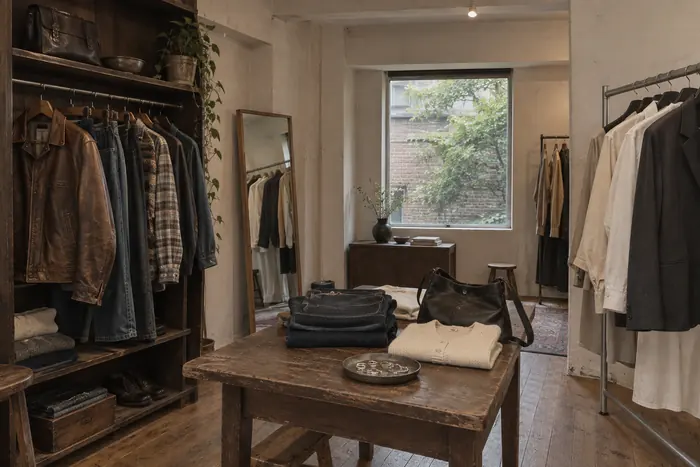
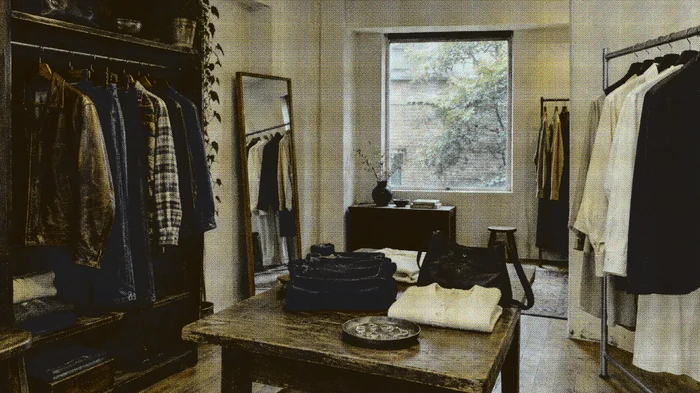
사진 8장을 망점 효과 적용본으로 교체(히어로·PICK 5·지역 3), 실제 크기에 맞춰 srcset 수정

diff --git a/index.html b/index.html
@@ -18,7 +18,7 @@
   <link rel="apple-touch-icon" href="src/assets/apple-touch-icon.png?v=3">
 
   <link rel="stylesheet" href="https://cdnjs.cloudflare.com/ajax/libs/leaflet/1.9.4/leaflet.min.css" />
-  <link rel="preload" as="image" href="src/assets/hero.webp?v=7" imagesrcset="src/assets/hero-1800.webp?v=7 1800w, src/assets/hero.webp?v=7 3000w" imagesizes="100vw" fetchpriority="high">
+  <link rel="preload" as="image" href="src/assets/hero.webp?v=8" imagesrcset="src/assets/hero.webp?v=8 1097w" imagesizes="100vw" fetchpriority="high">
   <link rel="stylesheet" href="src/styles/site.css?v=116">
   <title data-i18n="site-title">더하퍼 — K-패션 에디터 큐레이션, 서울</title>
 </head>
@@ -86,7 +86,7 @@
   <main id="main">
     <!-- Hero Section -->
     <section id="hero" class="hero">
-      <img class="hero__image" src="src/assets/hero.webp?v=7" srcset="src/assets/hero-1800.webp?v=7 1800w, src/assets/hero.webp?v=7 3000w" sizes="100vw" alt="" width="3000" height="1904" fetchpriority="high" decoding="async">
+      <img class="hero__image" src="src/assets/hero.webp?v=8" srcset="src/assets/hero.webp?v=8 1097w" sizes="100vw" alt="" width="1097" height="617" fetchpriority="high" decoding="async">
       <div class="container">
         <div class="hero__content">
           <h1 class="hero__headline" style="color: white;" data-i18n="hero-headline">Seoul,
@@ -251,7 +251,7 @@ Curated by Editors</h1>
             <!-- Card 1: Seongsu -->
             <div class="pick-card" data-area="seongsu">
               <div class="pick-card__image">
-                <img src="src/assets/pick-1-seongsu-700.webp?v=1" srcset="src/assets/pick-1-seongsu-700.webp?v=1 700w, src/assets/pick-1-seongsu-1200.webp?v=1 1200w" sizes="(max-width: 700px) 100vw, (max-width: 1100px) 50vw, 40vw" width="1200" height="1600" alt="" loading="lazy" decoding="async">
+                <img src="src/assets/pick-1-seongsu-700.webp?v=2" srcset="src/assets/pick-1-seongsu-700.webp?v=2 700w, src/assets/pick-1-seongsu-1200.webp?v=2 883w" sizes="(max-width: 700px) 100vw, (max-width: 1100px) 50vw, 40vw" width="883" height="1125" alt="" loading="lazy" decoding="async">
               </div>
               <p class="pick-card__area" data-i18n="picks-card-1-area">성수</p>
               <h4 class="pick-card__title" data-i18n="picks-card-1-title">성수 골목의 컨템포러리 편집샵</h4>
@@ -261,7 +261,7 @@ Curated by Editors</h1>
             <!-- Card 2: Seongsu -->
             <div class="pick-card" data-area="seongsu">
               <div class="pick-card__image">
-                <img src="src/assets/pick-2-seongsu-700.webp?v=1" srcset="src/assets/pick-2-seongsu-700.webp?v=1 700w, src/assets/pick-2-seongsu-1200.webp?v=1 1200w" sizes="(max-width: 700px) 100vw, (max-width: 1100px) 50vw, 40vw" width="1200" height="800" alt="" loading="lazy" decoding="async">
+                <img src="src/assets/pick-2-seongsu-700.webp?v=2" srcset="src/assets/pick-2-seongsu-700.webp?v=2 700w, src/assets/pick-2-seongsu-1200.webp?v=2 1097w" sizes="(max-width: 700px) 100vw, (max-width: 1100px) 50vw, 40vw" width="1097" height="617" alt="" loading="lazy" decoding="async">
               </div>
               <p class="pick-card__area" data-i18n="picks-card-2-area">성수</p>
               <h4 class="pick-card__title" data-i18n="picks-card-2-title">붉은 벽돌 창고를 고친 브랜드 쇼룸</h4>
@@ -271,7 +271,7 @@ Curated by Editors</h1>
             <!-- Card 3: Hannam -->
             <div class="pick-card" data-area="hannam">
               <div class="pick-card__image">
-                <img src="src/assets/pick-3-hannam-700.webp?v=1" srcset="src/assets/pick-3-hannam-700.webp?v=1 700w, src/assets/pick-3-hannam-1200.webp?v=1 1200w" sizes="(max-width: 700px) 100vw, (max-width: 1100px) 50vw, 40vw" width="1200" height="800" alt="" loading="lazy" decoding="async">
+                <img src="src/assets/pick-3-hannam-700.webp?v=2" srcset="src/assets/pick-3-hannam-700.webp?v=2 700w, src/assets/pick-3-hannam-1200.webp?v=2 1200w" sizes="(max-width: 700px) 100vw, (max-width: 1100px) 50vw, 40vw" width="1200" height="674" alt="" loading="lazy" decoding="async">
               </div>
               <p class="pick-card__area" data-i18n="picks-card-3-area">한남</p>
               <h4 class="pick-card__title" data-i18n="picks-card-3-title">한남 언덕의 조용한 부티크</h4>
@@ -281,7 +281,7 @@ Curated by Editors</h1>
             <!-- Card 4: Hannam -->
             <div class="pick-card" data-area="hannam">
               <div class="pick-card__image">
-                <img src="src/assets/pick-4-hannam-700.webp?v=1" srcset="src/assets/pick-4-hannam-700.webp?v=1 700w, src/assets/pick-4-hannam-1200.webp?v=1 1200w" sizes="(max-width: 700px) 100vw, (max-width: 1100px) 50vw, 40vw" width="1200" height="800" alt="" loading="lazy" decoding="async">
+                <img src="src/assets/pick-4-hannam-700.webp?v=2" srcset="src/assets/pick-4-hannam-700.webp?v=2 700w, src/assets/pick-4-hannam-1200.webp?v=2 1200w" sizes="(max-width: 700px) 100vw, (max-width: 1100px) 50vw, 40vw" width="1200" height="674" alt="" loading="lazy" decoding="async">
               </div>
               <p class="pick-card__area" data-i18n="picks-card-4-area">한남</p>
               <h4 class="pick-card__title" data-i18n="picks-card-4-title">빈티지와 신상을 같이 두는 편집샵</h4>
@@ -291,7 +291,7 @@ Curated by Editors</h1>
             <!-- Card 5: Apgujeong -->
             <div class="pick-card" data-area="apgujeong">
               <div class="pick-card__image">
-                <img src="src/assets/pick-5-apgujeong-700.webp?v=1" srcset="src/assets/pick-5-apgujeong-700.webp?v=1 700w, src/assets/pick-5-apgujeong-1200.webp?v=1 1200w" sizes="(max-width: 700px) 100vw, (max-width: 1100px) 50vw, 40vw" width="1200" height="800" alt="" loading="lazy" decoding="async">
+                <img src="src/assets/pick-5-apgujeong-700.webp?v=2" srcset="src/assets/pick-5-apgujeong-700.webp?v=2 700w, src/assets/pick-5-apgujeong-1200.webp?v=2 1200w" sizes="(max-width: 700px) 100vw, (max-width: 1100px) 50vw, 40vw" width="1200" height="673" alt="" loading="lazy" decoding="async">
               </div>
               <p class="pick-card__area" data-i18n="picks-card-5-area">압구정</p>
               <h4 class="pick-card__title" data-i18n="picks-card-5-title">로데오 뒷길의 디자이너 스튜디오</h4>
@@ -375,7 +375,7 @@ Curated by Editors</h1>
           <div class="area__districts-grid">
           <a class="district-card" href="https://www.instagram.com/theharper.kr" target="_blank" rel="noopener" data-area="seongsu">
             <div class="district-card__image">
-              <img src="src/assets/area-seongsu-900.webp?v=1" srcset="src/assets/area-seongsu-900.webp?v=1 900w, src/assets/area-seongsu-1600.webp?v=1 1600w" sizes="(max-width: 700px) 100vw, (max-width: 1100px) 33vw, 400px" width="1600" height="2400" alt="" loading="lazy" decoding="async">
+              <img src="src/assets/area-seongsu-900.webp?v=2" srcset="src/assets/area-seongsu-900.webp?v=2 752w" sizes="(max-width: 700px) 100vw, (max-width: 1100px) 33vw, 400px" width="752" height="1125" alt="" loading="lazy" decoding="async">
             </div>
             <div class="district-card__text">
               <p class="district-card__label" data-i18n="area-card-seongsu-title">성수</p>
@@ -385,7 +385,7 @@ Curated by Editors</h1>
 
           <a class="district-card" href="https://www.instagram.com/theharper.kr" target="_blank" rel="noopener" data-area="hannam">
             <div class="district-card__image">
-              <img src="src/assets/area-hannam-900.webp?v=1" srcset="src/assets/area-hannam-900.webp?v=1 900w, src/assets/area-hannam-1600.webp?v=1 1600w" sizes="(max-width: 700px) 100vw, (max-width: 1100px) 33vw, 400px" width="1600" height="2400" alt="" loading="lazy" decoding="async">
+              <img src="src/assets/area-hannam-900.webp?v=2" srcset="src/assets/area-hannam-900.webp?v=2 747w" sizes="(max-width: 700px) 100vw, (max-width: 1100px) 33vw, 400px" width="747" height="1125" alt="" loading="lazy" decoding="async">
             </div>
             <div class="district-card__text">
               <p class="district-card__label" data-i18n="area-card-hannam-title">한남</p>
@@ -395,7 +395,7 @@ Curated by Editors</h1>
 
           <a class="district-card" href="https://www.instagram.com/theharper.kr" target="_blank" rel="noopener" data-area="apgujeong">
             <div class="district-card__image">
-              <img src="src/assets/area-apgujeong-900.webp?v=1" srcset="src/assets/area-apgujeong-900.webp?v=1 900w, src/assets/area-apgujeong-1600.webp?v=1 1600w" sizes="(max-width: 700px) 100vw, (max-width: 1100px) 33vw, 400px" width="1600" height="2400" alt="" loading="lazy" decoding="async">
+              <img src="src/assets/area-apgujeong-900.webp?v=2" srcset="src/assets/area-apgujeong-900.webp?v=2 748w" sizes="(max-width: 700px) 100vw, (max-width: 1100px) 33vw, 400px" width="748" height="1125" alt="" loading="lazy" decoding="async">
             </div>
             <div class="district-card__text">
               <p class="district-card__label" data-i18n="area-card-apgujeong-title">압구정</p>
